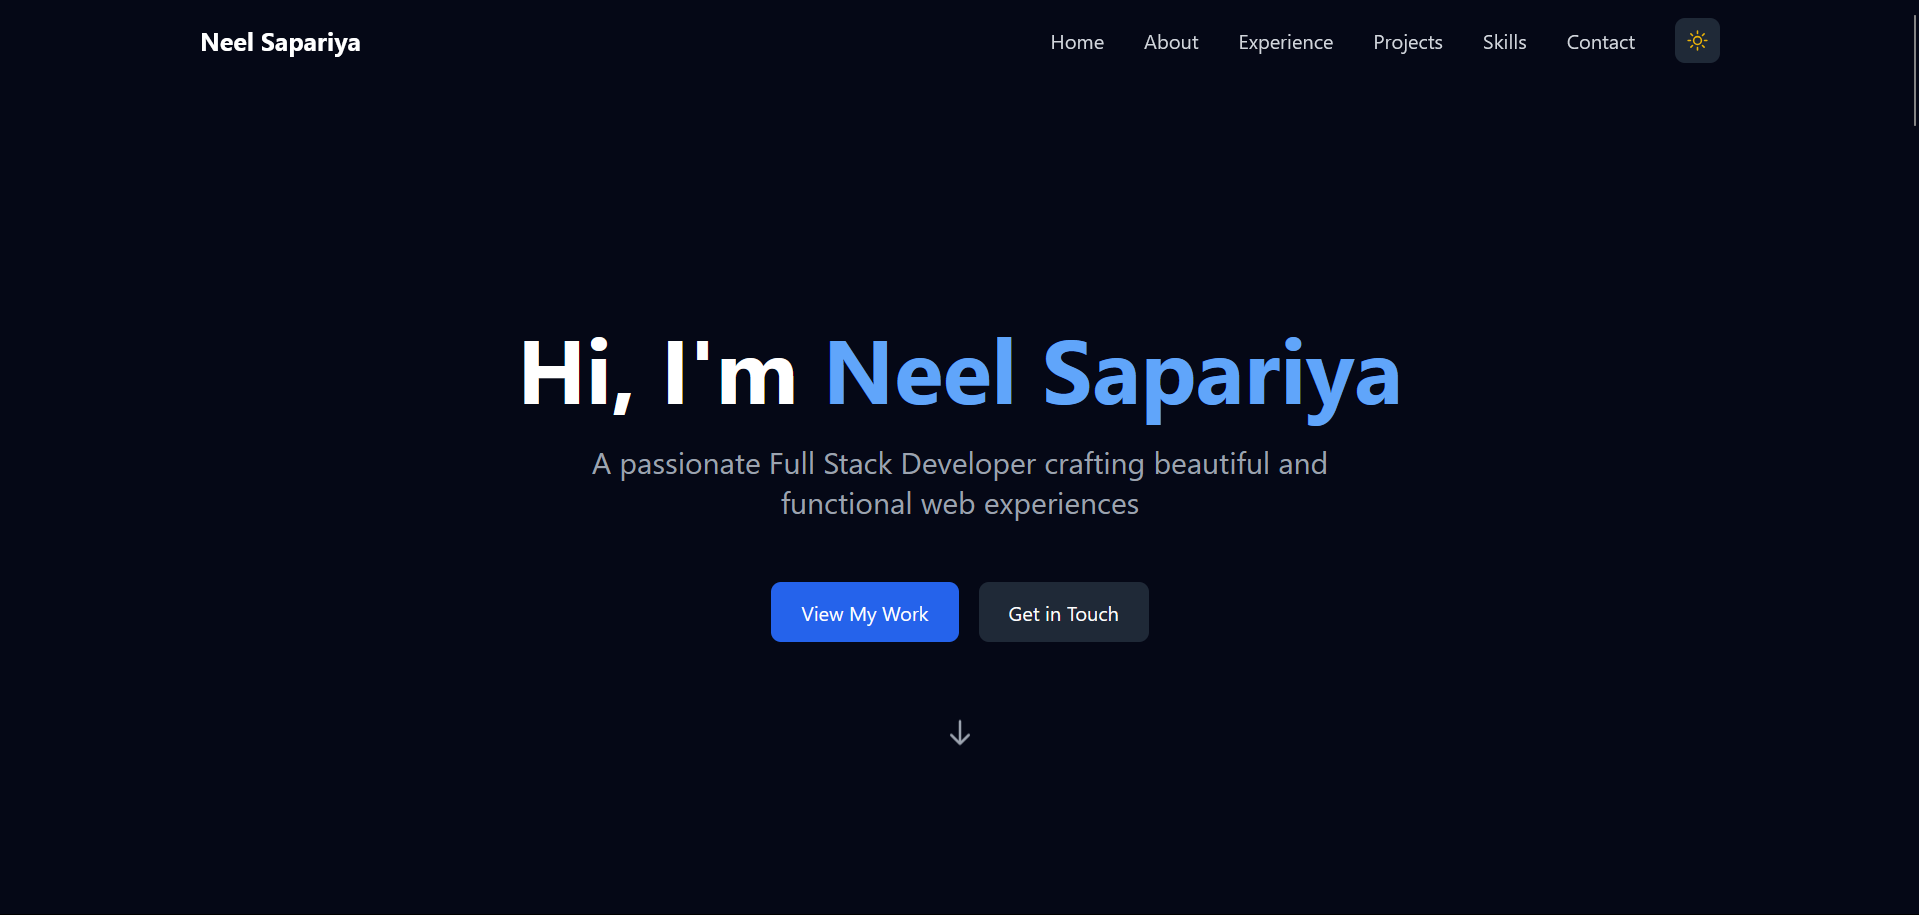
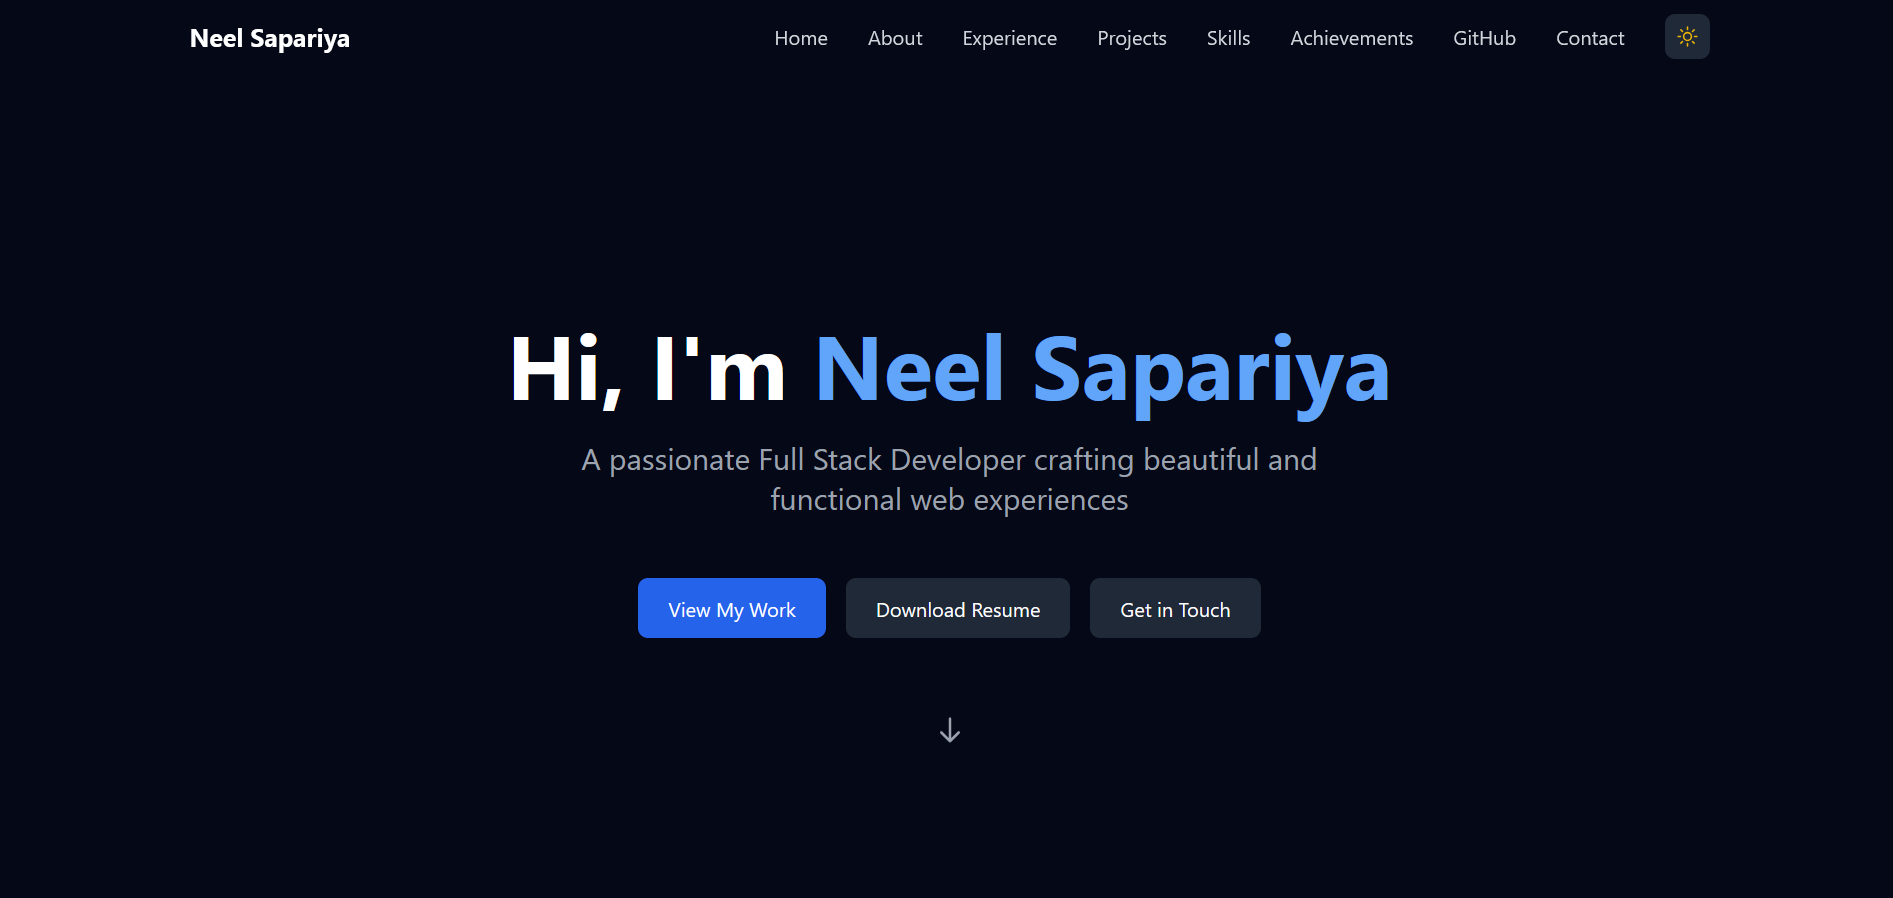
Readme Update

diff --git a/README.md b/README.md
@@ -6,13 +6,29 @@ Welcome to my personal portfolio website! This is a modern, responsive web appli
 
 ## 🚀 Features
 
-- **Responsive Design**: Seamless experience across all devices
-- **Dark Mode**: Easy on the eyes with automatic theme detection
-- **Smooth Animations**: Engaging user experience with Framer Motion
-- **SEO Optimized**: Enhanced visibility with meta tags and structured data
-- **Performance Focused**: Optimized loading with dynamic imports and image optimization
+- **Responsive Design**: Seamless experience across all devices with optimized layouts
+- **Dark Mode**: Easy on the eyes with automatic theme detection and smooth transitions
+- **Smooth Animations**: Enhanced user experience with Framer Motion
+  - Optimized animation performance with reduced delays
+  - Consistent vertical slide animations across sections
+  - Smooth transitions for dark/light mode switching
+- **SEO Optimized**: Enhanced visibility with:
+  - Comprehensive meta tags and structured data
+  - Optimized Open Graph and Twitter card integration
+  - Improved search engine indexing
+  - Dynamic sitemap generation
+- **Performance Focused**: 
+  - Dynamic imports for better code splitting
+  - Optimized image loading with Next.js Image component
+  - Lazy loading for better initial page load
+  - Reduced animation complexity for smoother performance
 - **Accessibility**: WCAG compliant with proper ARIA labels and semantic HTML
 - **Contact Form**: Integrated email functionality for easy communication
+- **GitHub Integration**: 
+  - Real-time GitHub statistics
+  - Dynamic contribution graph
+  - Automated streak tracking
+  - Tech stack visualization with icons
 
 ## 🛠 Built With
 
@@ -22,56 +38,34 @@ Welcome to my personal portfolio website! This is a modern, responsive web appli
 - **Icons**: Heroicons
 - **Email Service**: Nodemailer
 - **Deployment**: Vercel
+- **Version Control**: Git & GitHub
 
 ## 🌟 Sections
 
-- **Hero**: Eye-catching introduction
-- **About**: Professional background and interests
-- **Experience**: Work history and achievements
-- **Projects**: Showcase of key projects
-- **Skills**: Technical expertise
-- **Contact**: Get in touch form
-
-## 💻 Local Development
-
-1. Clone the repository:
-```bash
-git clone https://github.com/sapariyaneel/Portfolio-New.git
-```
-
-2. Install dependencies:
-```bash
-npm install
-```
-
-3. Create a `.env.local` file with necessary environment variables:
-```env
-SMTP_HOST=your_smtp_host
-SMTP_PORT=your_smtp_port
-SMTP_USER=your_email
-SMTP_PASSWORD=your_password
-```
-
-4. Start the development server:
-```bash
-npm run dev
-```
-
-5. Open [http://localhost:3000](http://localhost:3000) to view the site
+- **Hero**: Dynamic introduction with smooth text animations
+- **About**: Professional background with optimized profile image display
+- **Experience**: Detailed work history with timeline visualization
+- **Projects**: 
+  - Interactive project showcase
+  - Category filtering system
+  - Search functionality
+  - Modal view for project details
+- **Skills**: Animated skill bars with progress indicators
+- **Achievements**: Timeline-based achievement showcase
+- **GitHub Stats**: 
+  - Live contribution tracking
+  - Tech stack visualization
+  - Streak statistics
+- **Contact**: Enhanced contact form with social media integration
 
 ## 📝 License
 
-This project is open source and available under the MIT License.
+This is a personal portfolio website. All rights reserved. © 2024 Neel Sapariya. This project is not open source and is not available for reuse, modification, or distribution.
 
 ## 🤝 Contact
 
 Feel free to reach out if you have any questions or just want to connect:
 
-- Email: sapariyaneel9156@gmail.com
 - LinkedIn: [Neel Sapariya](https://linkedin.com/in/neelsapariya)
-- Twitter: [@sapariyaneel_](https://twitter.com/sapariyaneel_)
+- Twitter: [@sapariyaneel_](https://x.com/sapariyaneel_)
 - GitHub: [@sapariyaneel](https://github.com/sapariyaneel)
-
----
-
-Designed & Built with ❤ by Neel Sapariya
